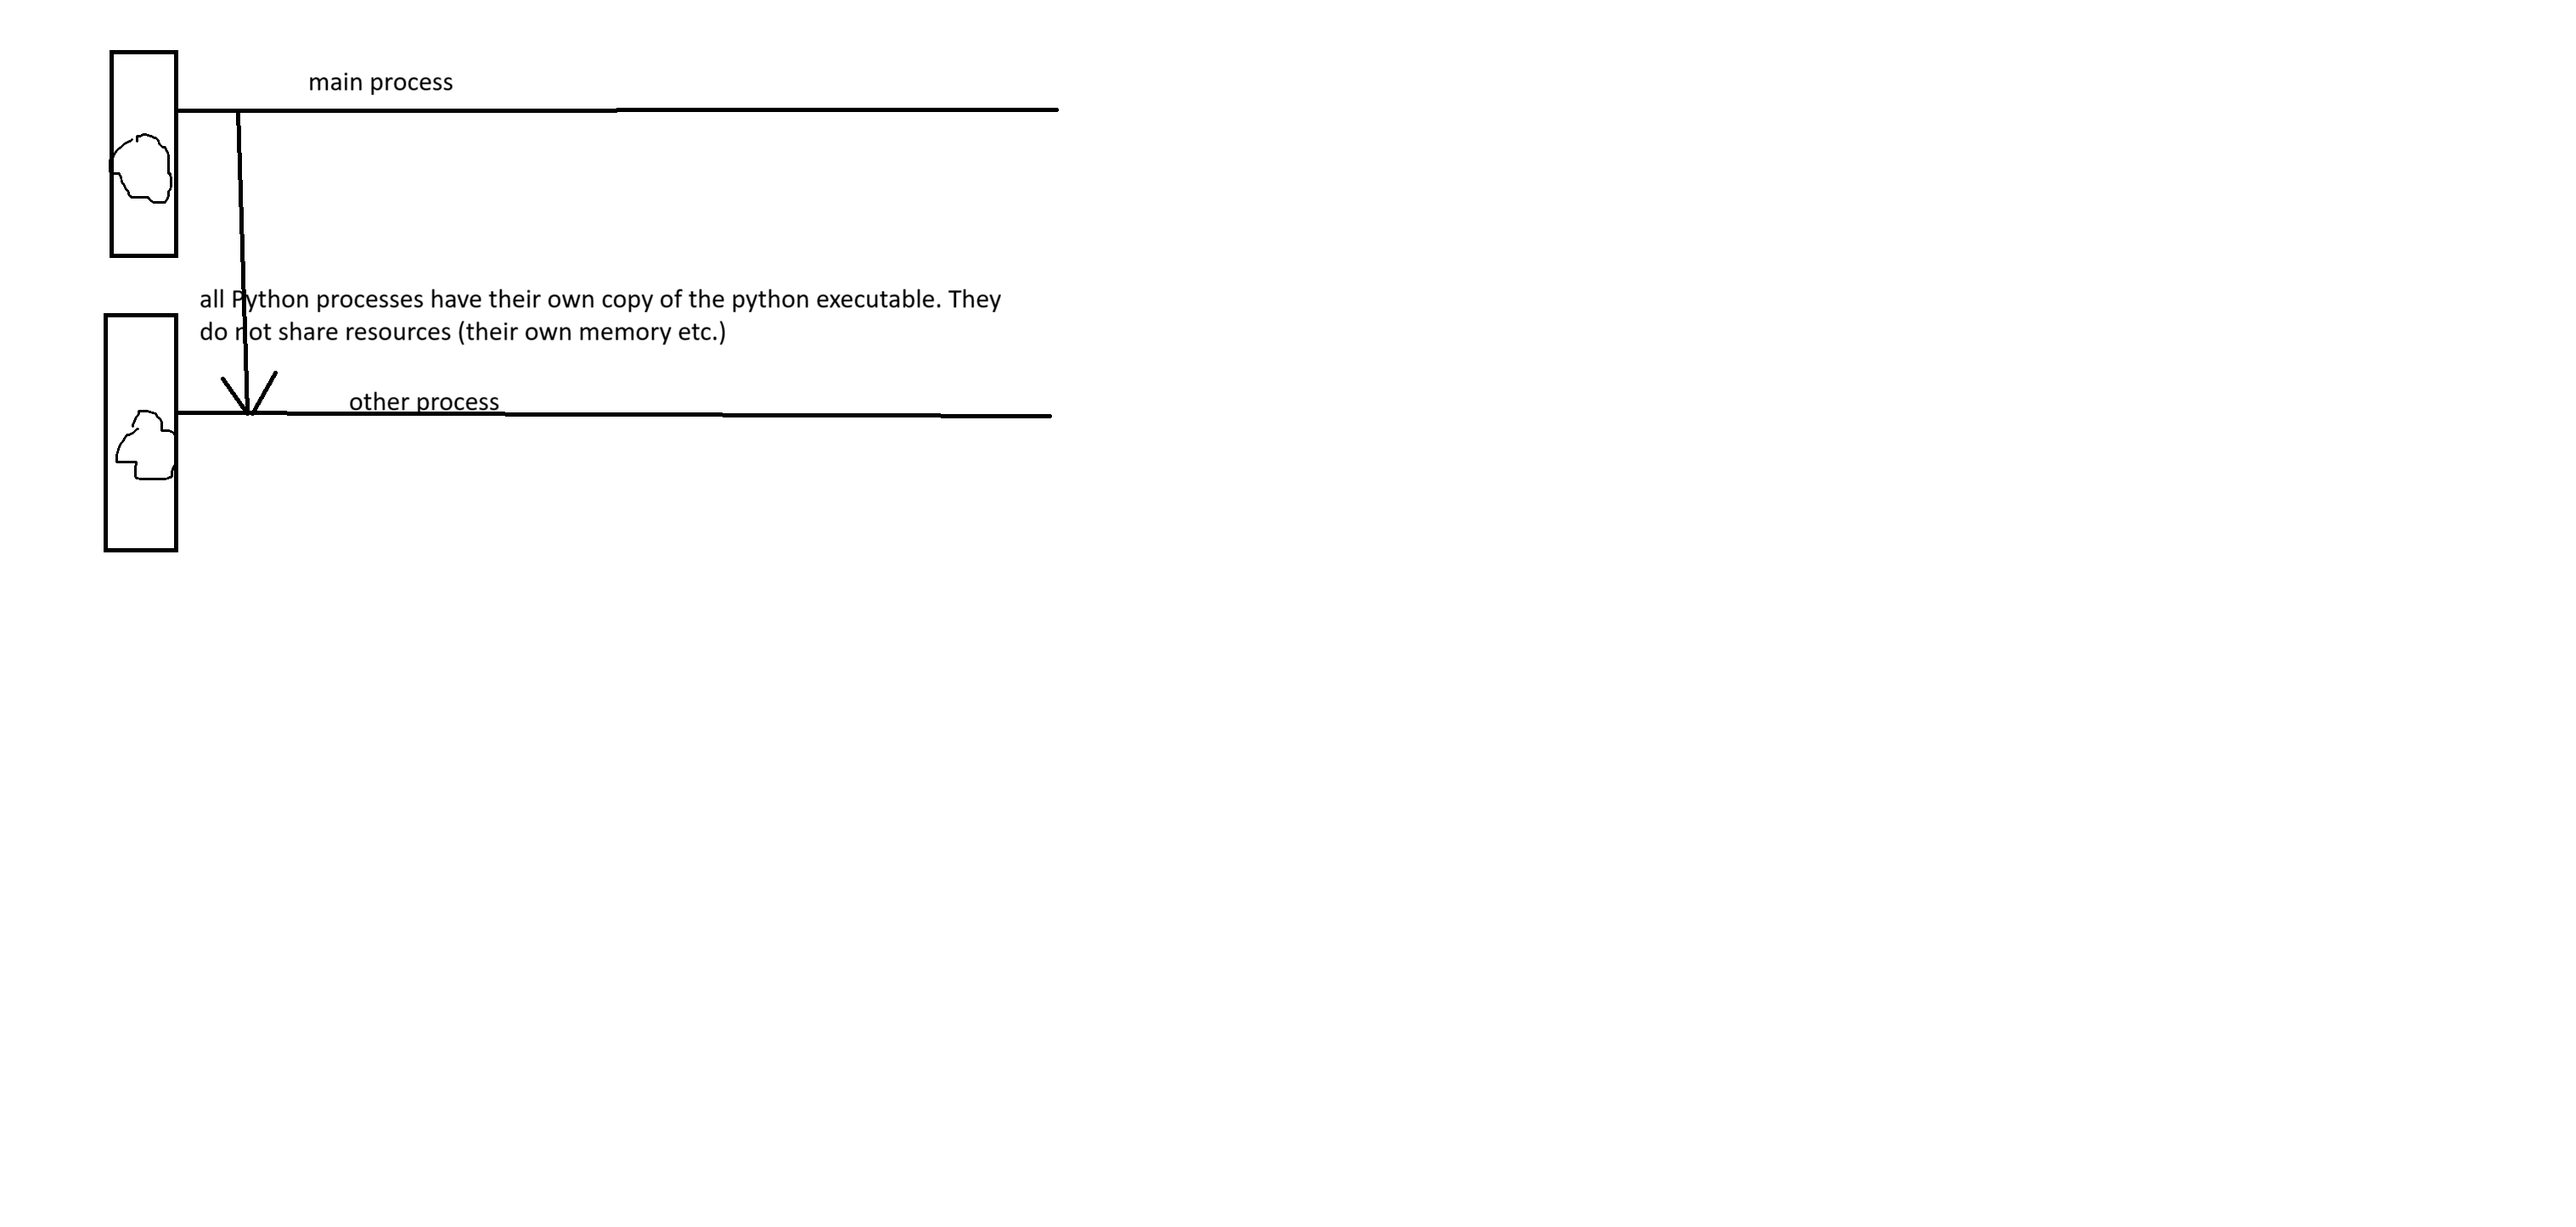
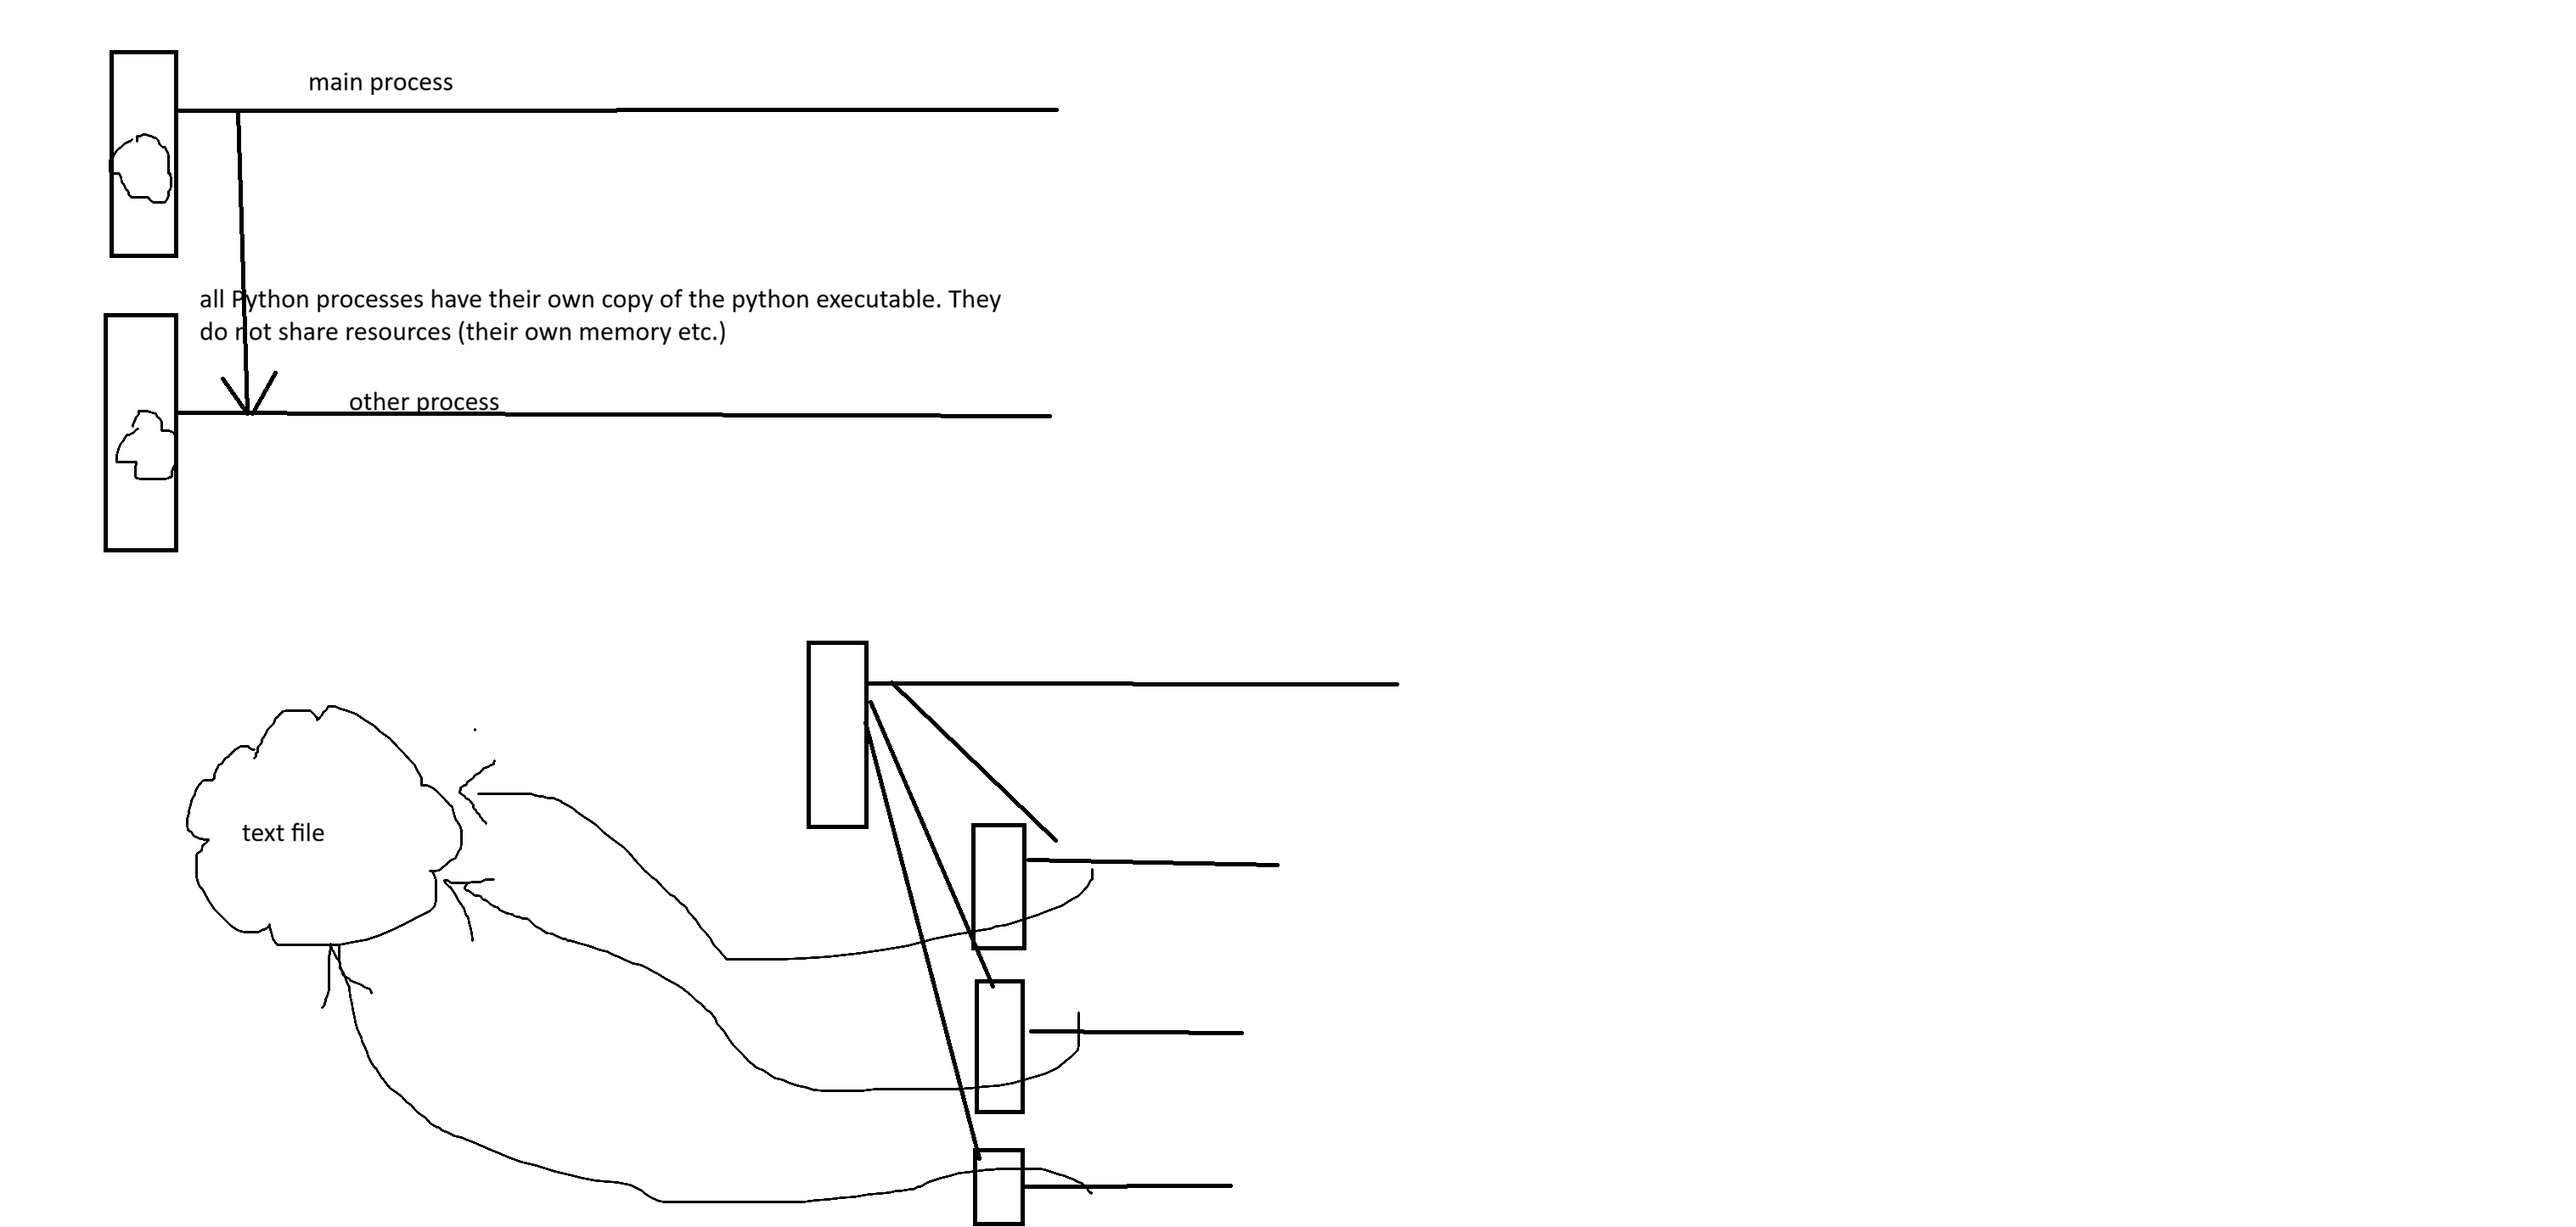
asyncio

Changed region(s): [[0.3098, 0.529, 0.5267, 1.0], [0.1549, 0.7158, 0.1859, 0.7469], [0.0929, 0.6535, 0.1239, 0.6846]]

diff --git a/using_async/my_async.py b/using_async/my_async.py
@@ -1,0 +1,26 @@
+import asyncio # from Python 3.7+  I/O is often a bottleneck
+# NB the behaviour of asyncio has mutatted across Pythno versions
+# it is stable since 3.11
+
+async def countA():
+    '''pretend this is a long running process'''
+    print('some long-running preparatory stuff')
+    await asyncio.sleep(4) # very similar to time.sleep(4)
+
+async def countB():
+    '''another long-running process'''
+    print('carrying out important operations')
+    await asyncio.sleep(4)
+
+# make our functions aware of async operations (async and await always go together)
+async def main():
+    '''run our long-running operations (often I/O bound)'''
+    # print('...Main process begins')
+    # await countA() # the await lets this pause until the operation is completes
+    # print('...Main process continues')
+    # await countB()
+    # we may need to work with many async operations
+    await asyncio.gather( countA(), countB(), countA(), countA(), countB() )
+
+if __name__ == '__main__':
+    asyncio.run( main() )
